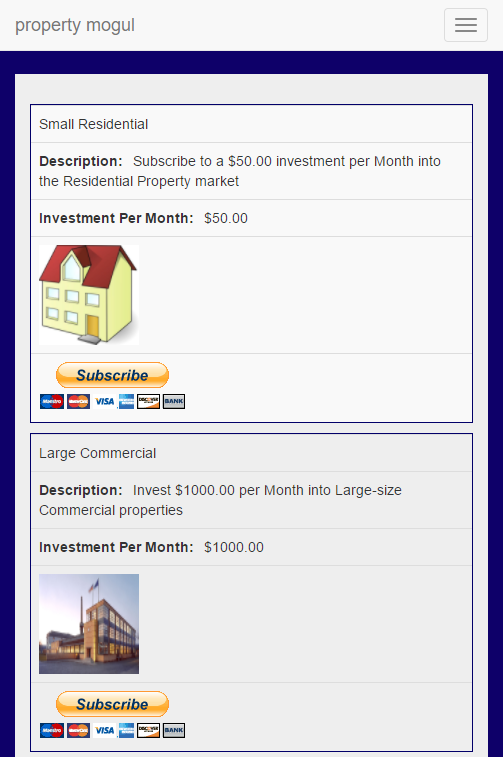
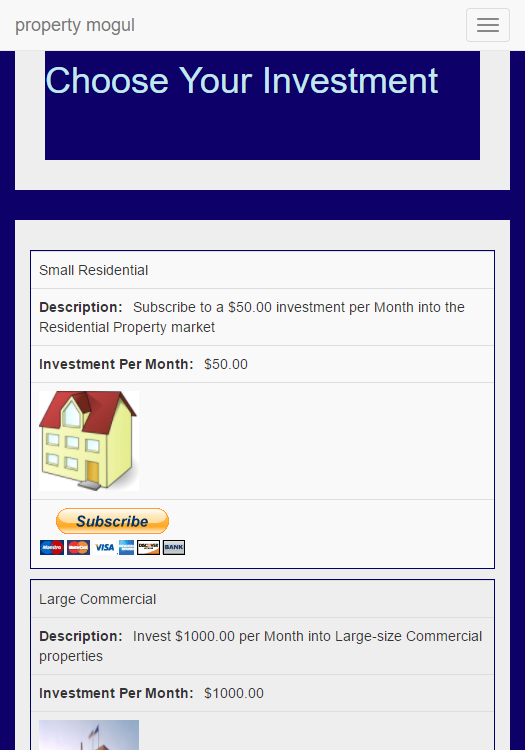
restored test mode and new invest screenshot

Changed region(s): [[0.0298, 0.0, 0.9841, 1.0], [0.3877, 0.92, 0.507, 0.9507]]

diff --git a/templates/houses/houses.html b/templates/houses/houses.html
@@ -13,12 +13,12 @@
                     <div class="col-sm-8">
                         <div class="text-left">
                         <h1>Choose Your Investment</h1>
-{#                            <div>#}
-{#                                <h3 style="color: red;"><strong>In Test Mode</strong></h3>#}
-{#                                <h5><strong>Choose a Monthly Investment amount: </strong>Click 'Subscribe'</h5>#}
-{#                                <h5><strong>Use PayPal Login: </strong>some.one@gmail.com</h5>#}
-{#                                <h5><strong>Password: </strong>Password01</h5>#}
-{#                            </div>#}
+                            <div>
+                                <h3 style="color: red;"><strong>In Test Mode</strong></h3>
+                                <h5><strong>Choose a Monthly Investment amount: </strong>Click 'Subscribe'</h5>
+                                <h5><strong>Use PayPal Login: </strong>some.one@gmail.com</h5>
+                                <h5><strong>Password: </strong>Password01</h5>
+                            </div>
                         </div>
                     </div>
                 </div>
